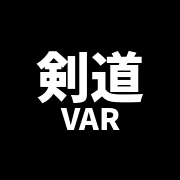
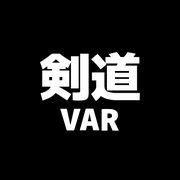
フォントを力強い太字ゴシック(Murecho)に変更し、アイコンも同じフォントで作り直す
- 画面の文字: Kosugi → Murecho(本文500・ボタンや見出し800・タイトル900)
- ホーム画面のアイコン: 「剣道 / VAR」をMurecho 900で作り直し(円形に切り抜かれても欠けない大きさ)

Claude-Session: https://claude.ai/code/session_01NR4MzTB9gyCiRChk7vSsam

Changed region(s): [[0.1944, 0.2778, 0.8056, 0.75]]

diff --git a/css/style.css b/css/style.css
@@ -1,4 +1,5 @@
 /*
+  フォント: Murecho(500 / 800 / 900 のみ読み込み)。600・700 を指定すると 800 で表示されるため、800 にそろえている。
   デザイン方針:
   色は「意味を持つ場所」だけに使う。
   赤 = LIVE(撮影中)、アンバー = VAR REPLAY(再生中)。それ以外は白黒のグレースケールで統一する。
@@ -25,7 +26,8 @@
   user-select: none;
 }
 body {
-  font-family: "Meiryo", "Kosugi", -apple-system, BlinkMacSystemFont, "Segoe UI", Roboto, sans-serif;
+  font-family: "Murecho", -apple-system, BlinkMacSystemFont, "Hiragino Sans", "Noto Sans JP", sans-serif;
+  font-weight: 500;
   background: var(--bg);
   color: var(--text);
   text-align: center;
@@ -37,7 +39,7 @@ body {
 }
 h1 {
   font-size: 2rem;
-  font-weight: 700;
+  font-weight: 900;
   letter-spacing: -0.5px;
   margin: 10px 0 20px 0;
   color: var(--text);
@@ -55,7 +57,7 @@ input, button {
   font-size: 0.95rem;
   border-radius: var(--radius-md);
   margin: 3px;
-  font-weight: 600;
+  font-weight: 800;
   font-family: inherit;
   touch-action: manipulation;
   transition: background-color 0.2s var(--ease), opacity 0.15s var(--ease), transform 0.15s var(--ease);
@@ -106,7 +108,7 @@ body.camera-previewing .camera-preview { display: block; }
   padding: 5px 12px;
   border-radius: 20px;
   font-size: 0.8rem;
-  font-weight: 700;
+  font-weight: 800;
   letter-spacing: 0.3px;
   margin-bottom: 10px;
   background: var(--glass);
@@ -169,7 +171,7 @@ body.camera-previewing .camera-preview { display: block; }
 /* --- 再生コントロール（プレイヤーツールバー） --- */
 .time-readout {
   font-size: 0.78rem;
-  font-weight: 700;
+  font-weight: 800;
   color: var(--text-dim);
   letter-spacing: 0.3px;
   margin-top: 8px;
@@ -300,7 +302,7 @@ input[type="range"]:disabled::-moz-range-thumb { background: var(--text-dim); }
   border-radius: 14px;
   padding: 12px 18px;
   font-size: 0.85rem;
-  font-weight: 600;
+  font-weight: 800;
   line-height: 1.5;
   color: var(--text);
   text-align: center;
@@ -319,7 +321,7 @@ input[type="range"]:disabled::-moz-range-thumb { background: var(--text-dim); }
 .help-text {
   color: var(--text-dim);
   font-size: 0.78rem;
-  font-weight: 400;
+  font-weight: 500;
   line-height: 1.5;
   margin: 4px 4px 0 4px;
   text-align: left;
@@ -335,7 +337,7 @@ input[type="range"]:disabled::-moz-range-thumb { background: var(--text-dim); }
   border-radius: 50%;
   background: var(--glass-strong);
   font-size: 1.2rem;
-  font-weight: 700;
+  font-weight: 800;
   z-index: 60;
   box-shadow: 0 2px 12px rgba(0,0,0,0.5);
 }
@@ -385,7 +387,7 @@ input[type="range"]:disabled::-moz-range-thumb { background: var(--text-dim); }
   margin: 10px 3px 0;
   padding: 12px 14px;
   font-size: 0.95rem;
-  font-weight: 600;
+  font-weight: 800;
   text-align: center;
   text-decoration: none;
   color: var(--text);
@@ -463,7 +465,7 @@ body.mode-monitor .help-inline { display: flex; }
 }
 
 /* 横向きの親機でだけ使う、状態表示横のヘルプボタン(縦向きでは右下の「?」を使う) */
-.help-inline { display: none; font-size: 1.1rem; font-weight: 700; }
+.help-inline { display: none; font-size: 1.1rem; font-weight: 800; }
 
 
 /* =========================================================

diff --git a/index.html b/index.html
@@ -21,11 +21,11 @@
   <!-- WebRTC通信用ライブラリ (PeerJS) -->
   <script src="https://unpkg.com/peerjs@1.5.4/dist/peerjs.min.js"></script>
 
-  <!-- フォント: MeiryoはMicrosoft商用フォントでWeb配布不可のため、その代替として
-       作られたKosugiを読み込む。Windows等ローカルにMeiryoがあればそちらが優先される。 -->
+  <!-- フォント: Murecho(力強い太字ゴシック)。端末ごとの見た目をそろえるため、Webフォントで読み込む。
+       重さは本文500・ボタンや見出し800・タイトル900の3つだけに絞り、読み込みを軽くする -->
   <link rel="preconnect" href="https://fonts.googleapis.com">
   <link rel="preconnect" href="https://fonts.gstatic.com" crossorigin>
-  <link href="https://fonts.googleapis.com/css2?family=Kosugi&display=swap" rel="stylesheet">
+  <link href="https://fonts.googleapis.com/css2?family=Murecho:wght@500;800;900&display=swap" rel="stylesheet">
 
   <link rel="stylesheet" href="css/style.css">
 
@@ -58,7 +58,7 @@
       <p class="help-text" style="text-align:center;">接続中は画面が自動でオフにならないようになります。ただし手動で画面をロックするとカメラが止まってしまうので、そのままにしておいてください。</p>
       <p class="help-text" style="text-align:center;">横向きで撮影する場合は、端末の画面の回転をオンにしてください。</p>
       <button id="btnConnectToMonitor" class="btn-hero" style="width: 85%; padding: 14px; margin-top: 16px;">接続する</button>
-      <div id="cameraStatus" style="margin-top:15px; color:var(--text-dim); font-weight:600;">未接続</div>
+      <div id="cameraStatus" style="margin-top:15px; color:var(--text-dim); font-weight:800;">未接続</div>
     </div>
     <video id="localVideo" class="camera-preview" autoplay playsinline muted></video>
   </div>
